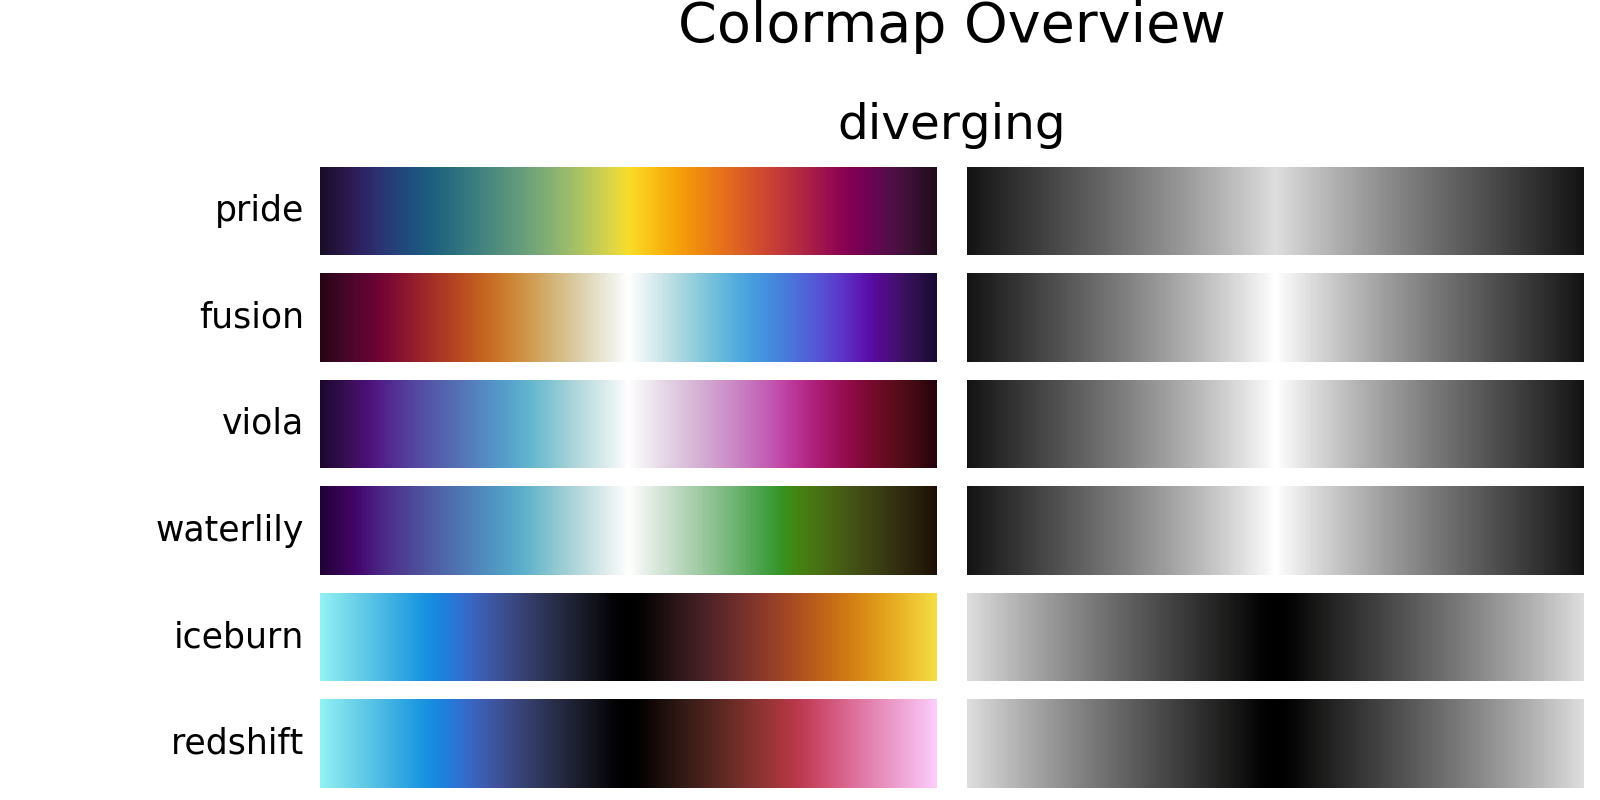
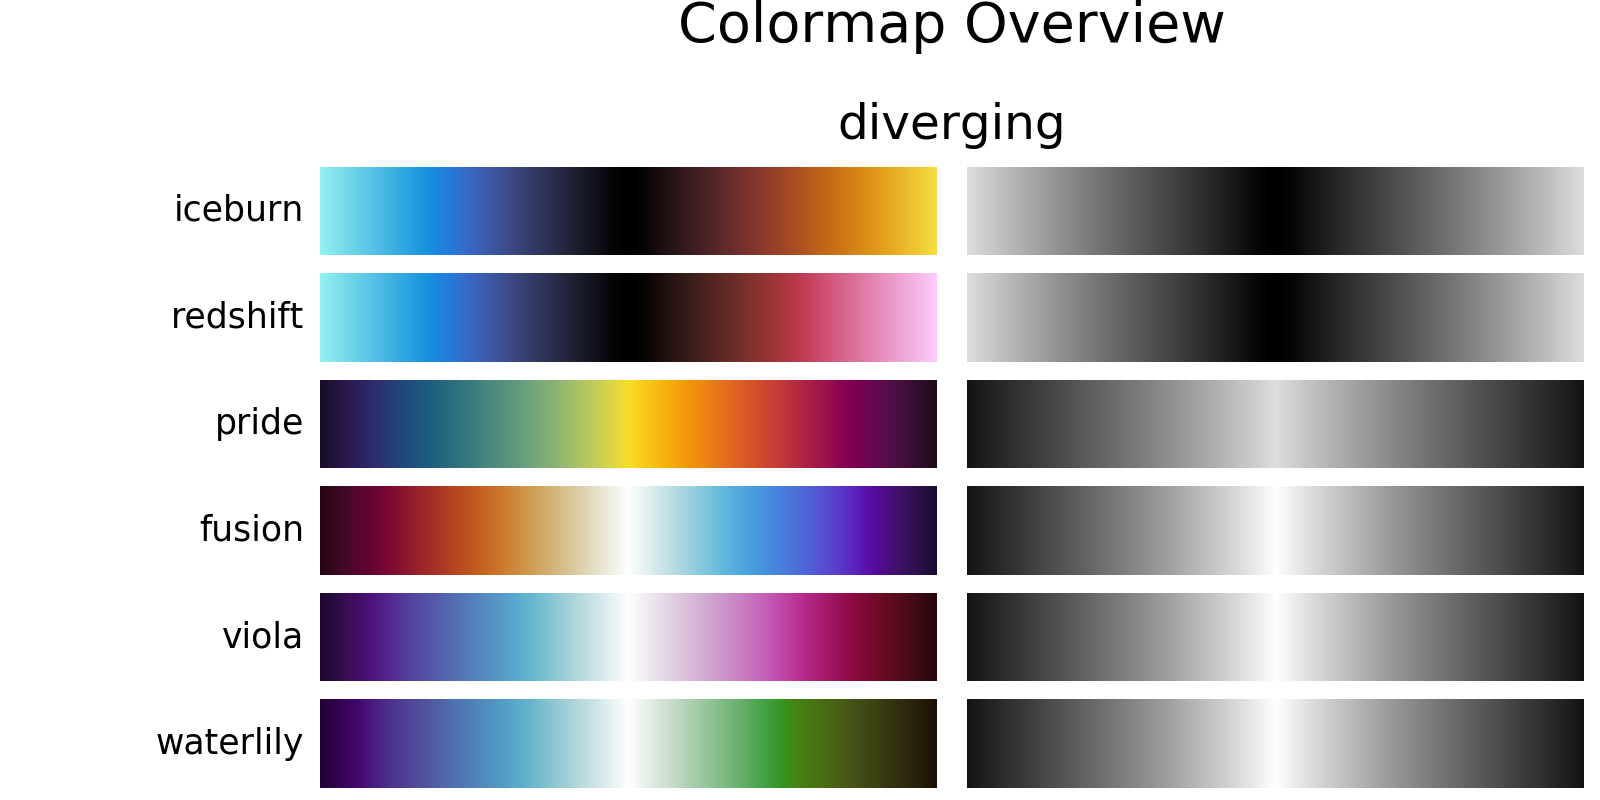
Renamed the '_get_cm_type' function to '_get_cmap_type'. Diverging colormaps are now first sorted on their central lightness value instead of their starting value in the colormap overview. Swapped the order of sorting colormaps on their lightness profiles to first use its range, and then its perform

diff --git a/cmasher/utils.py b/cmasher/utils.py
@@ -37,7 +37,7 @@ __all__ = ['create_cmap_overview', 'get_bibtex', 'get_sub_cmap',
 
 # %% HELPER FUNCTIONS
 # This function determines the colormap type of a given colormap
-def _get_cm_type(cmap):
+def _get_cmap_type(cmap):
     """
     Checks what the colormap type (sequential; diverging; cyclic; qualitative;
     misc) of the provided `cmap` is and returns it.
@@ -130,11 +130,12 @@ def _get_cmap_lightness_rank(cmap):
     -------
     L_start : float
         The starting lightness value of `cmap`.
+        For diverging colormaps, this is the central lightness value.
+    L_rng : float
+        The lightness range (L_max-L_min) of `cmap`.
     L_rmse : float
         The RMSE of the lightness profile of `cmap`.
         For diverging colormaps, this is the max RMSE of either half.
-    L_rng : float
-        The lightness range (L_max-L_min) of `cmap`.
     name : str
         The name of `cmap`.
 
@@ -155,23 +156,28 @@ def _get_cmap_lightness_rank(cmap):
     derivs = (cmap.N-1)*deltas
 
     # Determine the RMSE of the lightness profile
-    if _get_cm_type(cmap) in ('diverging', 'cyclic'):
+    if _get_cmap_type(cmap) in ('diverging', 'cyclic'):
         # If cmap is diverging, calculate RMSE of both halves
         central_i = [int(np.floor(cmap.N/2)), int(np.ceil(cmap.N/2))]
         L_rmse = np.max([np.around(np.std(derivs[:central_i[0]]), 1),
                          np.around(np.std(derivs[central_i[1]:]), 1)])
+
+        # Calculate central lightness value
+        L_start = np.around(np.average(L[central_i]), 1)
     else:
         # Else, take RMSE of entire lightness profile
         L_rmse = np.around(np.std(derivs), 1)
 
-    # Determine start and range
-    L_start = np.around(L[0], 1)
+        # Calculate starting lightness value
+        L_start = np.around(L[0], 1)
+
+    # Determine range
     L_min = np.around(np.min(L), 1)
     L_max = np.around(np.max(L), 1)
     L_rng = np.around(np.abs(L_max-L_min), 1)
 
     # Return contributions to the rank
-    return(L_start, L_rmse, L_rng, cmap.name)
+    return(L_start, L_rng, L_rmse, cmap.name)
 
 
 # %% FUNCTIONS
@@ -270,7 +276,7 @@ def create_cmap_overview(cmaps=None, savefig=None, use_types=True,
 
             # Loop over all cmaps and remove reversed versions
             for cmap in cmaps:
-                cm_type = _get_cm_type(cmap)
+                cm_type = _get_cmap_type(cmap)
                 if isinstance(cmap, string_types):
                     if not cmap.endswith('_r'):
                         cmaps_dict[cm_type].append(mplcm.get_cmap(cmap))
@@ -650,7 +656,7 @@ def import_cmaps(cmap_path):
 
             # Check if provided cmap is a cyclic colormap
             # If so, obtain its shifted (reversed) versions as well
-            if(_get_cm_type('cmr.'+cm_name) == 'cyclic'):
+            if(_get_cmap_type('cmr.'+cm_name) == 'cyclic'):
                 # Determine the central value index of the colormap
                 idx = len(rgb)//2
 
@@ -713,7 +719,7 @@ def register_cmap(name, data):
     cmap_mpl_r(1)
 
     # Determine the cm_type of the colormap
-    cm_type = _get_cm_type(cmap_mpl)
+    cm_type = _get_cmap_type(cmap_mpl)
 
     # Add cmap to matplotlib's cmap list
     mplcm.register_cmap(cmap=cmap_mpl)
